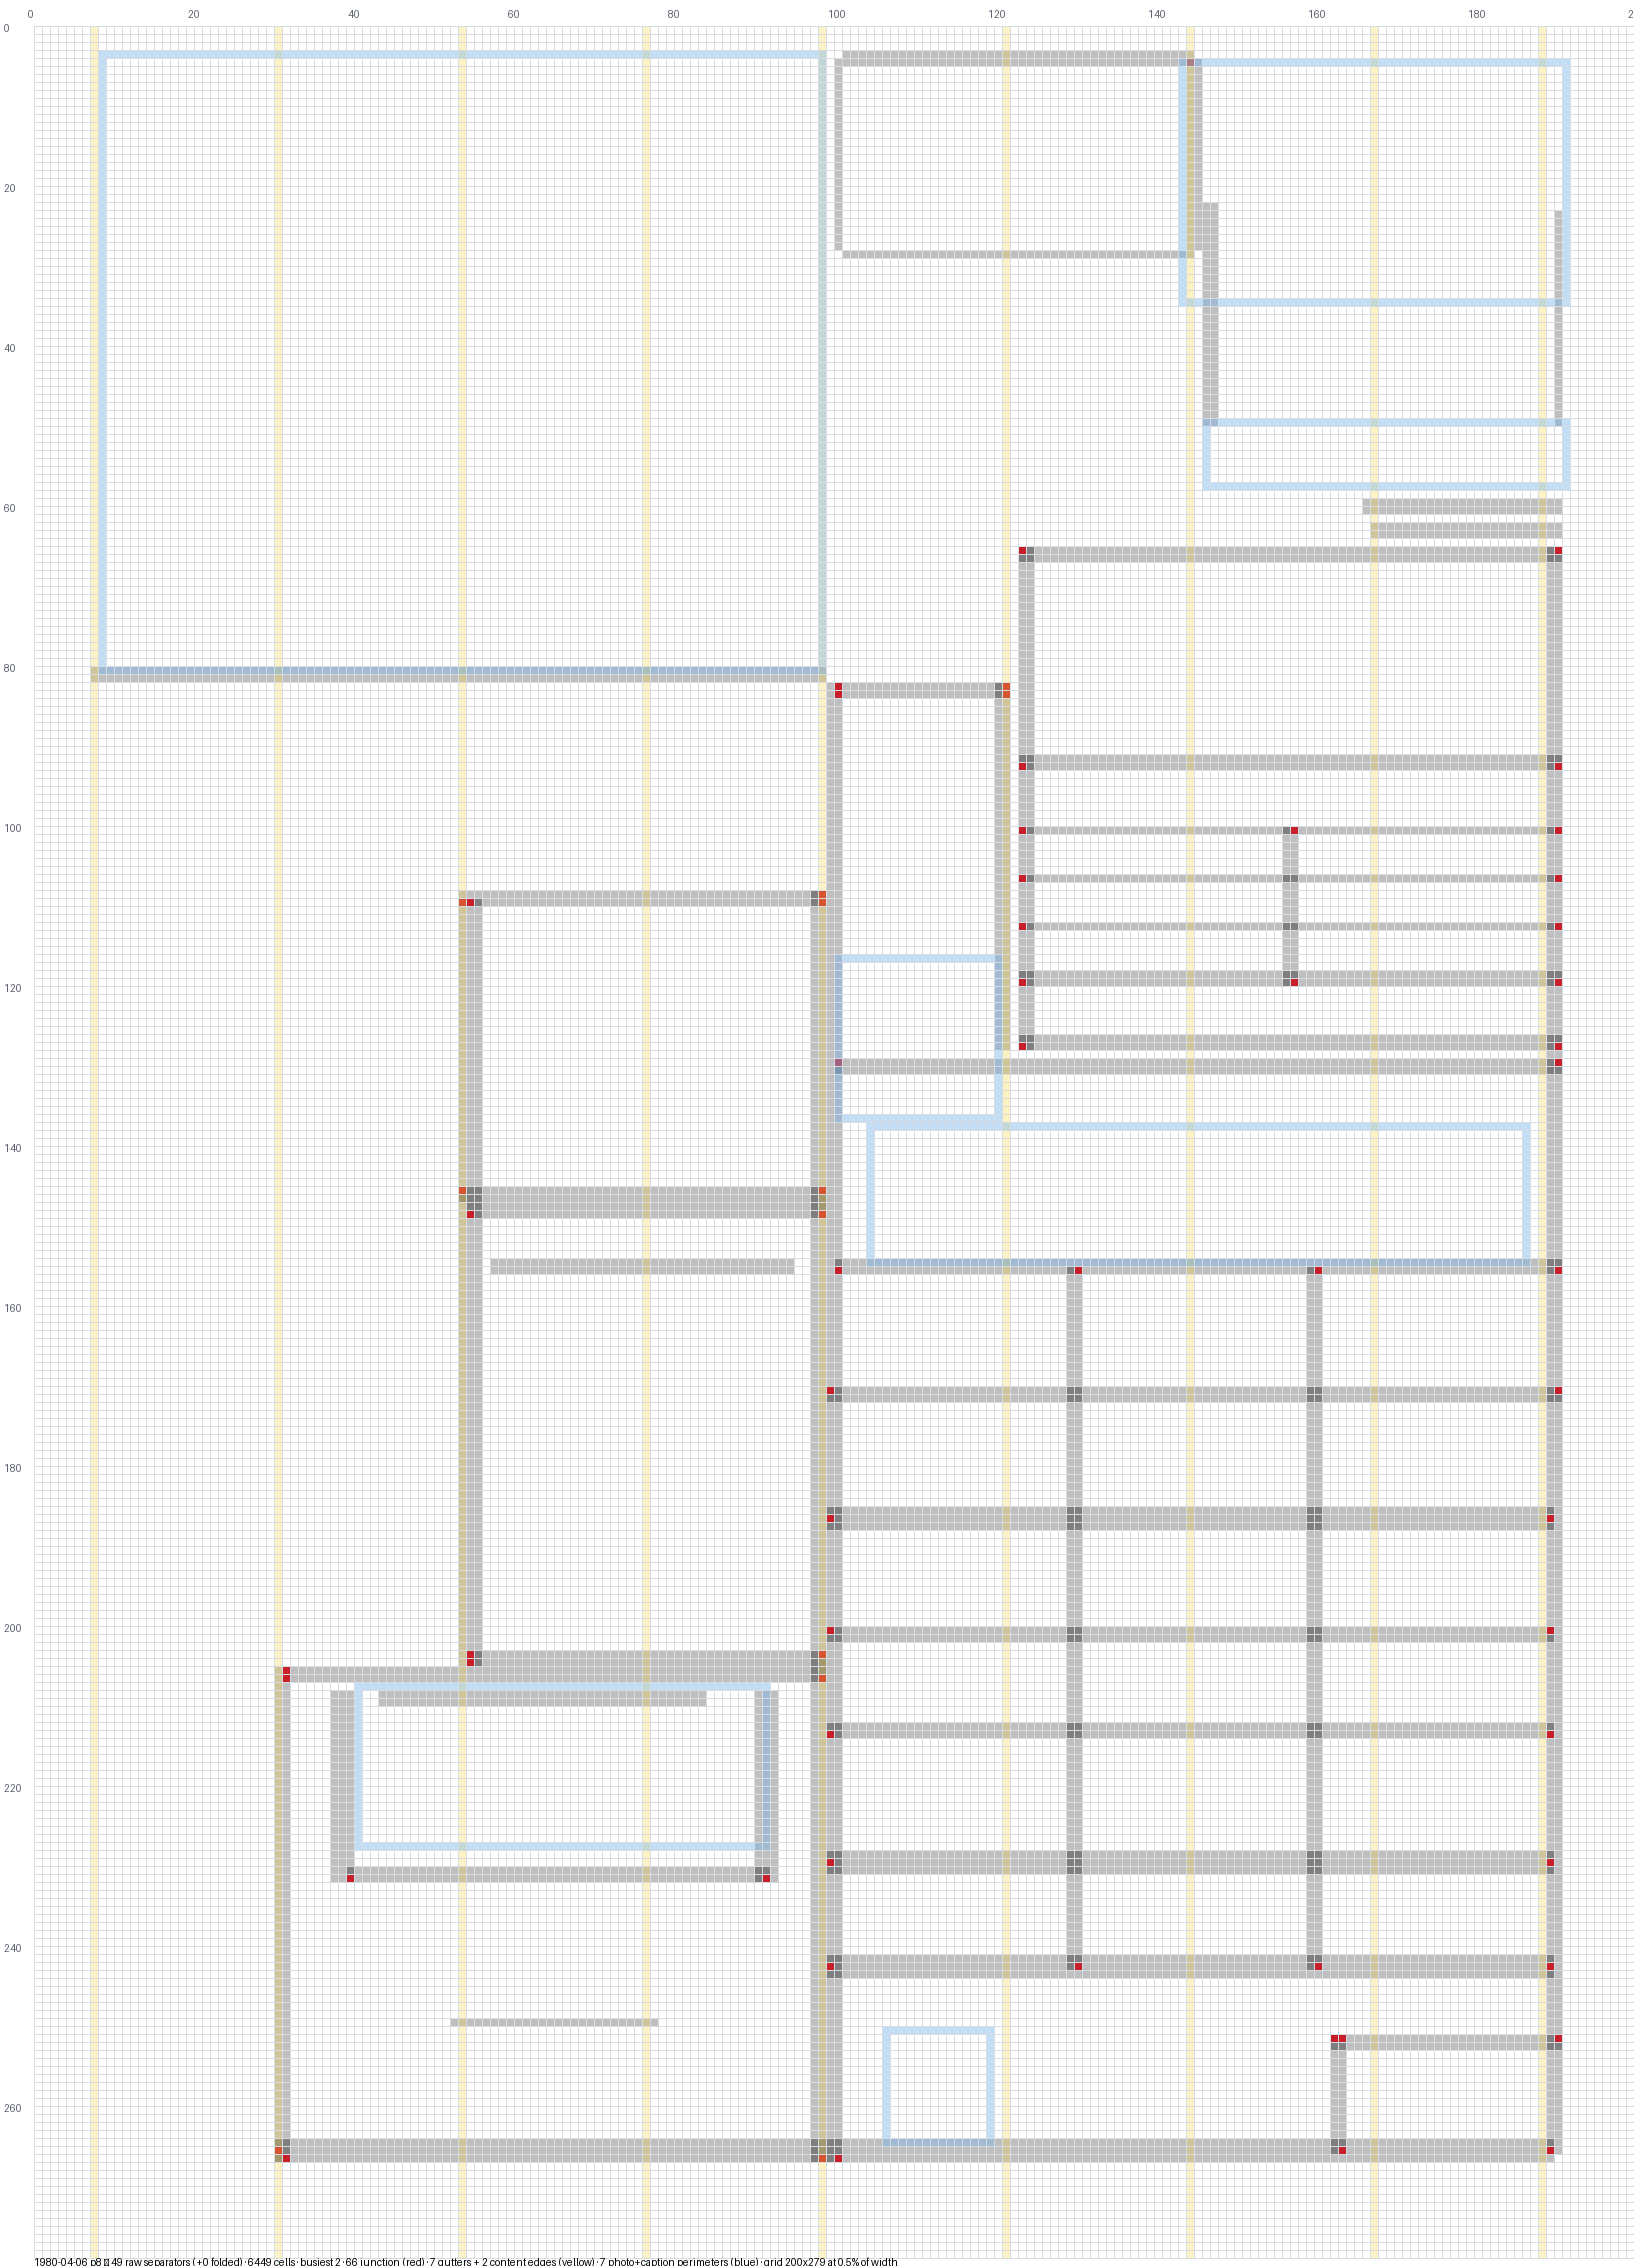
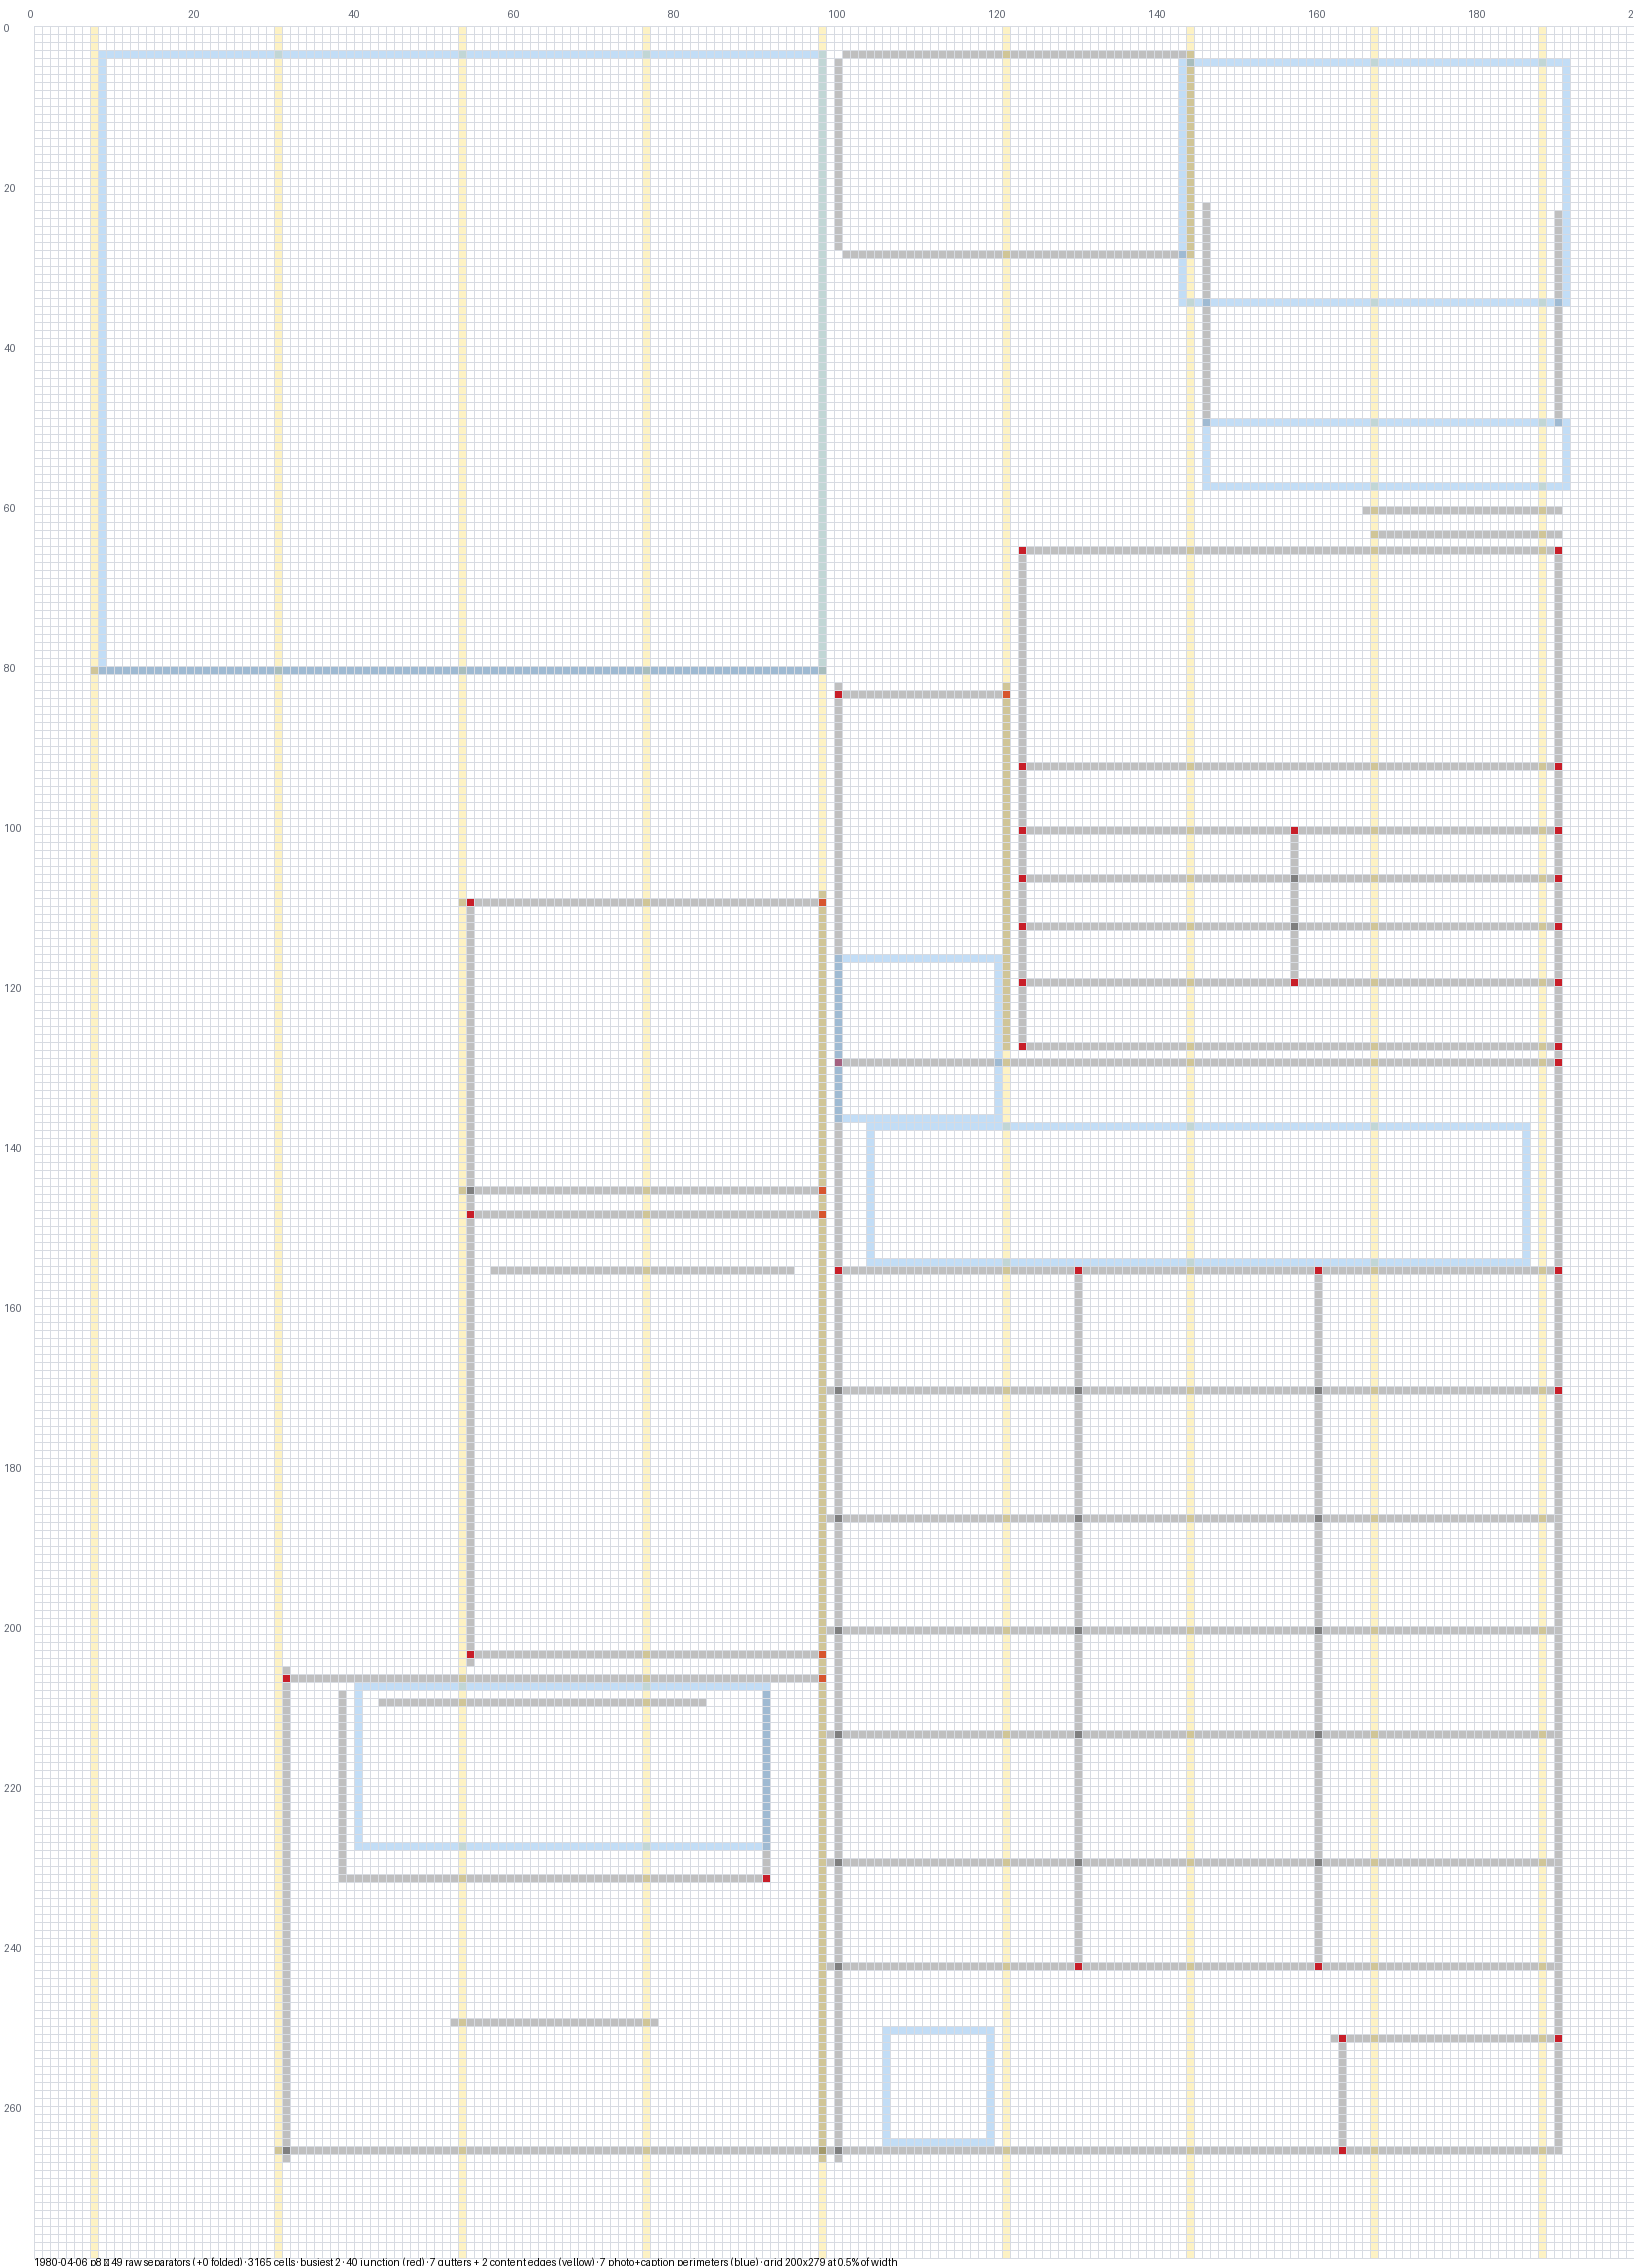
scaled/grid: place a rule by its CENTRE LINE, not its bbox footprint
Asked whether the doubled outline around p3's boxed area was really two
separators. It was not -- it is one rule straddling a cell boundary.

Measured on 1980-04-06 p3, where the box at x 50-61 is bounded by four
single rules:

    vertical  x 50.25-50.71   0.46% thick (19px)  -> lit x cells 100..101
    vertical  x 60.90-61.29   0.39% thick (16px)  -> lit x cells 121..122

Both are THINNER than the 0.5% cell, but each straddles a boundary and so
lit two columns of cells. The shading therefore read as two separators
where there is one -- precisely wrong for a view whose legend says each
region adds 25% grey.

A rule is now placed across its thin axis by its centre line, spanning its
full extent along its length. Thickness is not lost: it is a stored
property of the region (width_px/height_px) and belongs in a measurement,
not in a count of how many rules are present.

Effect: p3's busiest cell 2 -> 1 (there are genuinely no doubled rules on
that page), p13 4 -> 2, p8 4 -> 2. Junction cells fall too (p13 53 -> 25,
p8 66 -> 40) because a single corner was previously lighting two to four
cells; the corners themselves are unchanged on the render.

Claude-Session: https://claude.ai/code/session_01FiL5RaDmQAWNR3gnQRCAgK

diff --git a/transcribe/scaled/experiments/separator_grid.py b/transcribe/scaled/experiments/separator_grid.py
@@ -193,11 +193,31 @@ def build(conn, page_id: str, clean: bool = False):
     regions, swallowed = _fold_contained(regions)
 
     def cells_of(r):
-        c0 = max(0, min(n_cols - 1, int(r["L"] / CELL_PCT)))
-        c1 = max(0, min(n_cols - 1, int(r["R"] / CELL_PCT)))
+        """Cells a rule occupies: full extent along it, ONE cell across it.
+
+        Across its thin axis a rule is placed by its CENTRE LINE, not by
+        its bbox footprint. Measured on 1980-04-06 p3, the box at x 50-61
+        is bounded by single rules 0.39% and 0.46% thick -- THINNER than
+        the 0.5% cell -- but each straddles a cell boundary and so lit two
+        columns of cells. The shading then read as two separators where
+        there is one, which is exactly the wrong thing for a view whose
+        legend says each region adds 25% grey.
+
+        Thickness is not lost: it is a stored property of the region
+        (`width_px`/`height_px`) and belongs in a measurement, not in a
+        count of how many rules are present.
+        """
+        horizontal = (r["R"] - r["L"]) >= (r["B"] - r["T"])
+        if horizontal:
+            c0 = max(0, min(n_cols - 1, int(r["L"] / CELL_PCT)))
+            c1 = max(0, min(n_cols - 1, int(r["R"] / CELL_PCT)))
+            cy = max(0, min(n_rows - 1,
+                            int(((r["T"] + r["B"]) / 2) / cell_h_pct)))
+            return [(cy, x) for x in range(c0, c1 + 1)]
         r0 = max(0, min(n_rows - 1, int(r["T"] / cell_h_pct)))
         r1 = max(0, min(n_rows - 1, int(r["B"] / cell_h_pct)))
-        return [(y, x) for y in range(r0, r1 + 1) for x in range(c0, c1 + 1)]
+        cx = max(0, min(n_cols - 1, int(((r["L"] + r["R"]) / 2) / CELL_PCT)))
+        return [(y, cx) for y in range(r0, r1 + 1)]
 
     occupied = {}                       # cell -> set of region indices
     for i, r in enumerate(regions):
